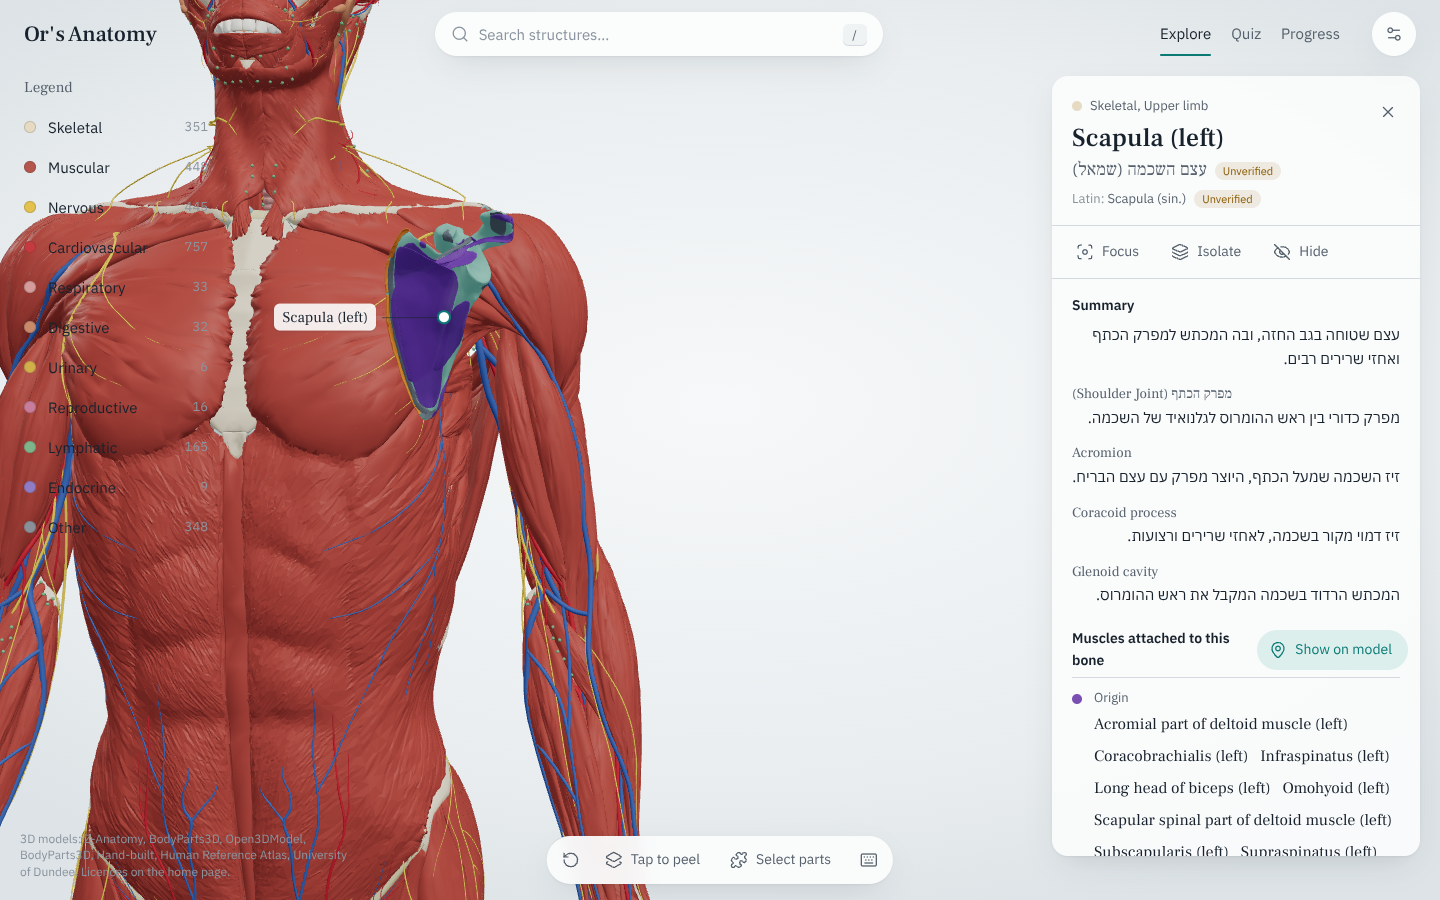
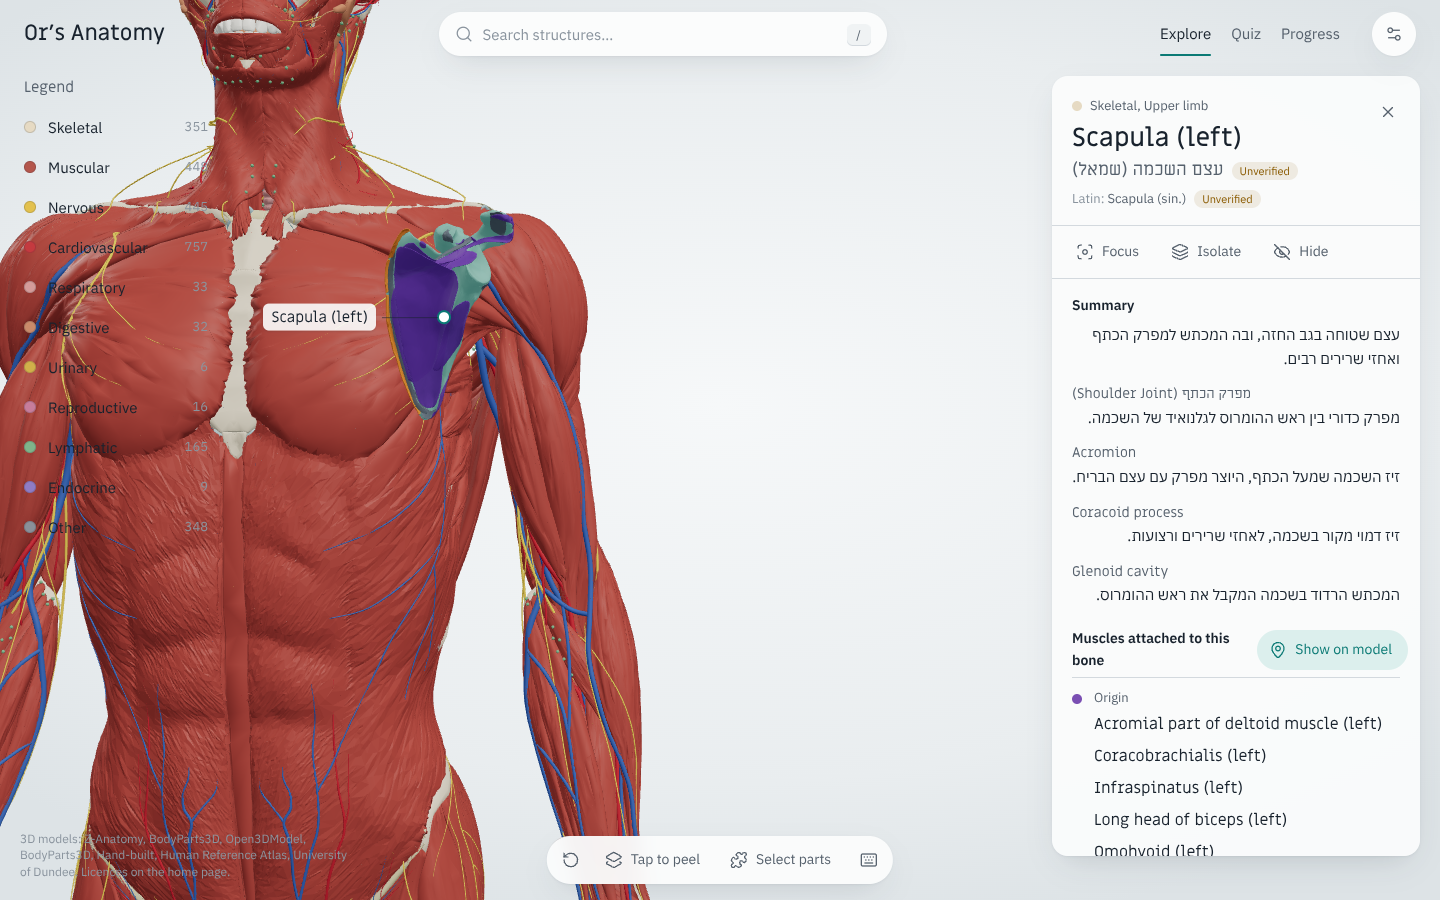
Screenshots with Miriam Libre; record the merge to main
Claude-Session: https://claude.ai/code/session_013qRDtZwDDDEXwn4V8VJs27

diff --git a/docs/STATUS.md b/docs/STATUS.md
@@ -56,6 +56,7 @@ Expected today: **211 unit/component tests, 42 e2e checks, all passing; CI green
 | 2026-10-05 | Course-site notes can't be copied or reworded (site terms); the user shared **her own summary** (Word, her own words) to use for **descriptions and names**. Her text is shown verbatim; her Hebrew names win over the site's.                                                                                                                                                                                                 |
 | 2026-10-07 | Priority 2 reviewed: **merge to `main`**, then **priority 3**, then **priority 4** (the kidney).                                                                                                                                                                                                                                                                                                                               |
 | 2026-10-08 | Priority 3 reviewed (and the clearance-check fix that moved the ansa and left phrenic nerve): **merge to `main`**, then **priority 4** (the kidney).                                                                                                                                                                                                                                                                           |
+| 2026-10-08 | Rename, icon, Miriam Libre titles and phone fixes: **merge everything to `main`**.                                                                                                                                                                                                                                                                                                                                             |
 | 2026-10-08 | **Title font: Miriam Libre** (picked from the home page in nine fonts) for names, titles and the wordmark, Hebrew and English; she didn't like the serif Hebrew fonts.                                                                                                                                                                                                                                                         |
 | 2026-10-08 | **App renamed "Or's Anatomy"** (Hebrew "האנטומיה של אור") — supersedes "no name in the UI" (2026-10-04) for the app name. Wants **a logo for the phone home screen**, a **Hebrew title font less like "David"** (Frank Ruhl's Hebrew), and the **phone fixed**: the page zoomed in and the nav buttons disappeared. She uses the app on her **phone** too, not only iPad/laptop.                                               |
 | 2026-10-08 | Priority 4 reviewed (the Atlas kidney): **merge to `main`**. The scrotum's boxy shape is fine as it is — **don't reshape it** (asked after seeing it on her phone).                                                                                                                                                                                                                                                            |
@@ -826,4 +827,6 @@ verify` green (209), `e2e:smoke` green (40); review shots for every new
   loader ships every subset, so Frank Ruhl still drew the Hebrew). The user
   picked **Miriam Libre** from real-page previews; it now sets all names,
   titles and the wordmark (`font-serif` renamed `font-title`), and the icon's
-  "אור". DECISIONS.md → "Title font".
+  "אור". DECISIONS.md → "Title font". `verify` green (211), `e2e:smoke` green (42); screenshots reviewed.
+- **2026-10-08 · merged to `main`** (user's go): `claude/rename-logo-mobile`
+  fast-forwarded.
